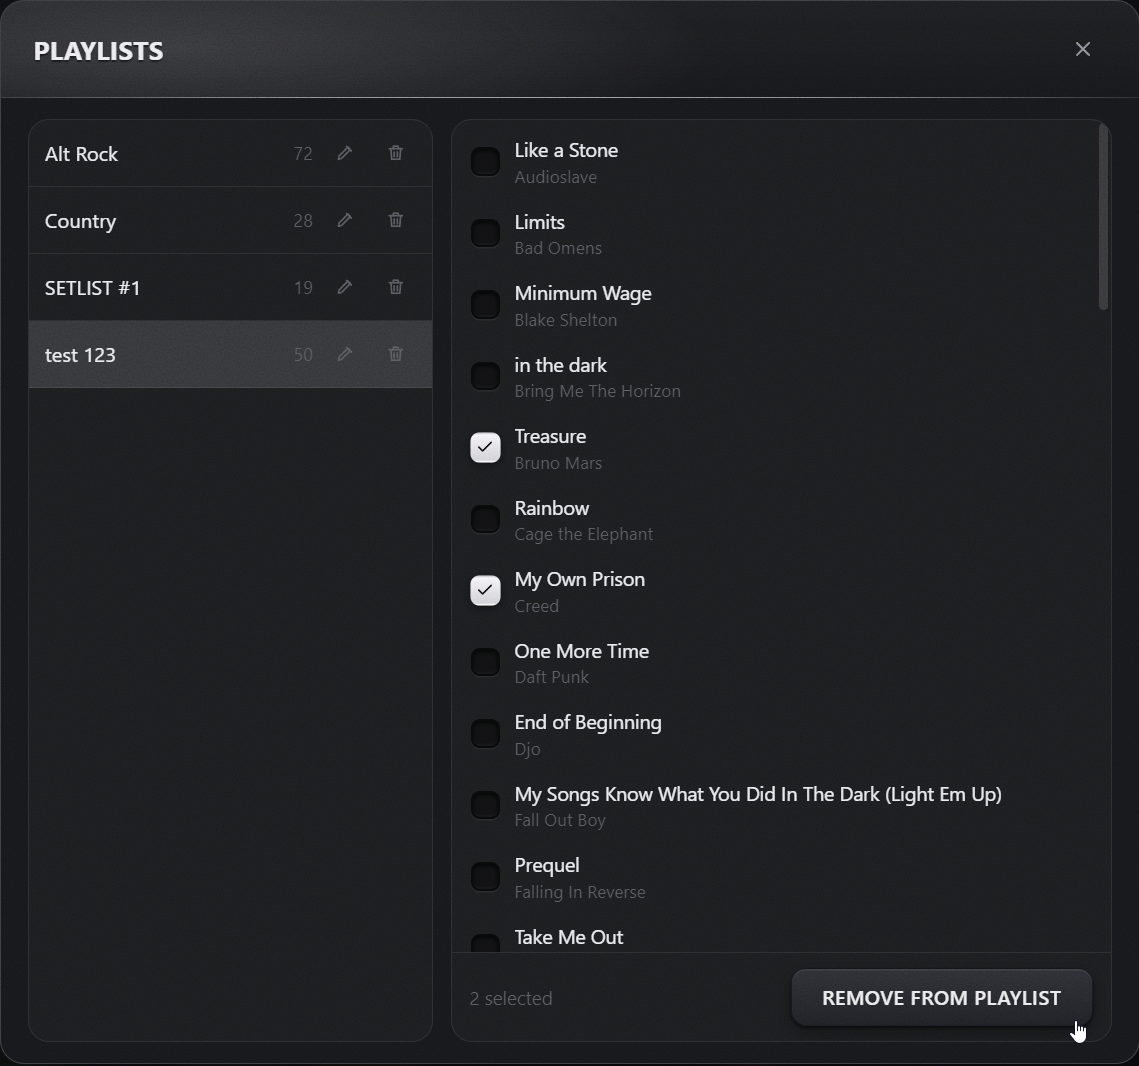
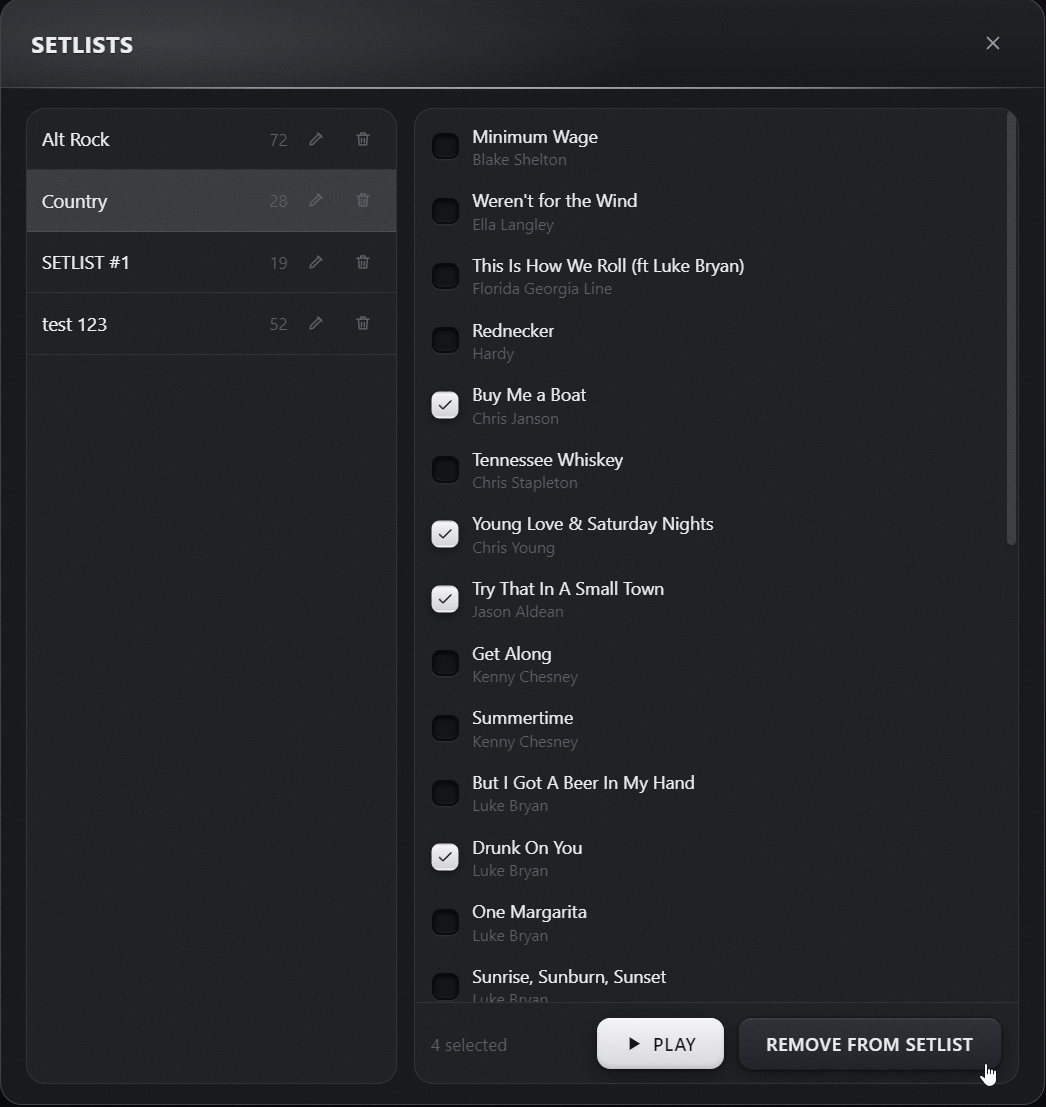
readme: update library and setlist previews

diff --git a/README.md b/README.md
@@ -155,7 +155,7 @@ clicks — a whole setlist from a playlist you already love. See
   in‑app; open any song to see its album art and per‑instrument difficulties.
 
 <p align="center">
-  <img alt="Library manager: browsing, sorting and managing the Songs folder" width="820" src="https://chartmanager.pages.dev/assets/readme-library-manager.gif" />
+  <img alt="Library manager: browsing, sorting and managing the Songs folder" width="820" src="docs/img/library-manager.gif" />
 </p>
 <table>
   <tr>
